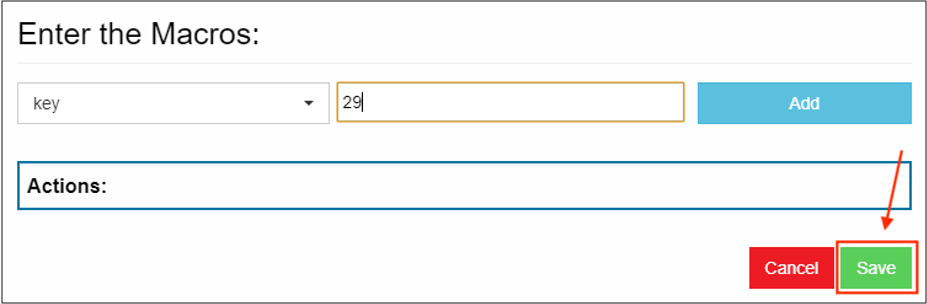
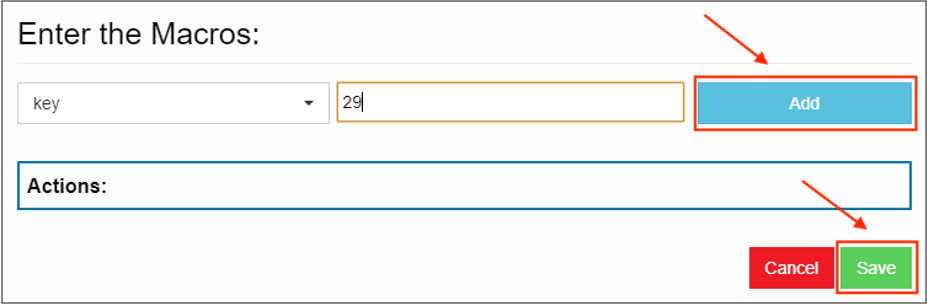
[TUT-40379] EKD 1.6 updates to Usage guide. MVP

diff --git a/src/ekd/1-6/guide/usage/index.md b/src/ekd/1-6/guide/usage/index.md
@@ -81,7 +81,7 @@ The DataWedge service is included on every Zebra device and when enabled, allows
 
 Before beginning a layout, please make note of the following: 
 
-#### Usage Notes
+#### Layout Creation Usage Notes
 
 * **Press CTRL-Z to Undo the most recent operations(s)**. 
 * **There is no "Redo" function**; changes made using CTRL-Z must be reverted manually.  
@@ -96,6 +96,8 @@ Before beginning a layout, please make note of the following:
 * All buttons should be placed within the bounds of the layout background. A layout must not be resized so that it hides any key or button.
 * When switching from one layout to another during design, a thin white line is sometimes visible at the bottom or sides of the layout background in the device simulator. This has no effect on the simulated display.
 * Button positions sometimes shift slightly when switching layouts during design. 
+
+> **IMPORTANT:** Layout-creation UI elements become available when applicable to the layout being created.
 
 ### Using Drag-and-drop
 
@@ -192,7 +194,7 @@ Before beginning a layout, please make note of the following:
  <li><b>Columns -</b> Number of columns in the layout, divided equally across the specified Width **(min = 1)**.</li> 
  <li><b>Margin -</b> Distance (in pixels) between Grid boxes, each of which stores one button **(min = 2; max = 10)**. </li></ul>
   **See [Zebra device specs](https://www.zebra.com/us/en/support-downloads/mobile-computers.html) for device resolution information**.<br>
-  **See [Grid Usage Notes](#gridusagenotes) for important restrictions**.<br>
+  **See Grid Usage Notes below for important restrictions**.<br>
   <br>
 6. **Double-click within each grid box to select it**. Then set its button properties: 
  <img alt="" style="height:350px" src="ekd_properties_panels.png"/>
@@ -259,7 +261,7 @@ Buttons can be positioned and resized within a layout by dragging manually, by u
 * **TextStyle –** Specifies the style of the button label text for the selected button. Drop-down values: Normal, Bold, BoldItalic, Italic. 
 * **SecondaryText -** Specifies the secondary button label displayed in the upper-right corner of the selected button. Indicates the key’s output or Action when long-pressed  **(max = 2); <u>must be blank if an image is selected</u> as button background**.
 
-#### Usage Notes
+#### Text Properties Usage Notes
 
 * **Button property minimum and maximum value rules** are the same for individual and multi-key selections. 
 * **Deleting a group of multi-selected keys** using the “Delete” key on the host computer’s keyboard is not supported. Keys must be deleted individually. 
@@ -286,7 +288,7 @@ Buttons can be positioned and resized within a layout by dragging manually, by u
 
 -----
 
-#### Button Actions
+### Button Actions
 Button Actions supported by EKD include predefined command strings for generating keyEvent output and for switching the key layout currently displayed on the device. 
 
 **Perform keyEvent Action -** Used to generate a particular keyEvent or output a character. Enter the key and value in key-value format from among the standard [Android keyEvent values](https://developer.android.com/reference/android/view/keyEvent). The keyEvent for a key can be captured inside JavaScript onKeyDown events and outputs the value, if associated. The drop-down action commands are selected using the steps below. 
@@ -320,12 +322,13 @@ Button Actions supported by EKD include predefined command strings for generatin
  * **Scan Trigger -** Scans a barcode using DataWedge, which must be configured in advance of this command. See [DataWedge documentation](https://techdocs.zebra.com/datawedge/latest/guide/utilities/ekb/) for more information. **Supported only with Press Action**.
 
 **See [all Unicode characters](https://unicode-table.com/en/)**<br>
-**See all [Android keyEvent values](https://developer.android.com/reference/android/view/KeyEvent)**
+**See [all Android keyEvent values](https://developer.android.com/reference/android/view/KeyEvent)**
 
 > **Note: Entries are case sensitive**. 
 
+-----
 
-#### Macros
+### Macros
 
 Multiple events can be assigned to a single key-press using Macros. Any key can be configured to send any number of keyCodes, events or Actions as listed below. 
 
@@ -341,30 +344,34 @@ Multiple events can be assigned to a single key-press using Macros. Any key can 
 * Send keyEvent
 * Send uppercase or lowercase keyCode or Unicode character
 * Switch to a fixed or custom layout
-* Set a delay between Actions
+* Set a delay between Actions (required&#42;)
 
-##### To Assign a Macro:
+&#42;_A delay of at least 500ms is required between key events to ensure desired execution order_. 
+
+#### To Assign a Macro:
 
 1. Select a key to which to assign a Macro. 
 2. In the Action section of the Button Properties panel, **select "Macros" from the desired Press Action drop-down** (Press, LongPress, ActionDown or ActionUp):  
- <img alt="" style="height:250px" src="ekd16_macros_1.png"/>
+ <img alt="" style="height:200px" src="ekd16_macros_1.png"/>
  _Click image to enlarge, ESC to exit_.
  <br>
 3. In the input box that appears **click the drop-down**.<br>
   A partial list of available key events is shown in Step 4.
- <img alt="" style="height:250px" src="ekd16_macros_2.png"/>
+ <img alt="" style="height:200px" src="ekd16_macros_2.png"/>
  _Click image to enlarge, ESC to exit_.
  <br>
-4. **Select an event (and enter a value as appropriate)** from the drop-down and click the "Add" button: 
+4. From the drop-down, **select an event (and enter a value if applicable)**. <br>
+ Then **click the "Add" button**: 
  <img alt="" style="height:200px" src="ekd16_macros_3.png"/>
  _Click image to enlarge, ESC to exit_.
  <br>
-5. **Repeat Step 4 until all desired events are added** to the Macro as desired. <br>
- <img alt="" style="height:250px" src="ekd16_macros_4.png"/>
+5. **Select "Delay" and enter a value of at least 500 (ms)** between each key event.  
+6. **Repeat Steps 4 and 5 until all desired events are added** to the Macro as desired. <br>
+ <img alt="" style="height:200px" src="ekd16_macros_4.png"/>
  _Click image to enlarge, ESC to exit_.
  <br>
-6. When finished, **click the "Save" button**:
- <img alt="" style="height:250px" src="ekd16_macros_5.png"/>
+7. When finished, **click the "Save" button**:
+ <img alt="" style="height:200px" src="ekd16_macros_5.png"/>
  _Click image to enlarge, ESC to exit_.
 
 #### The Macro is now assigned to the selected key 
@@ -376,7 +383,7 @@ Multiple events can be assigned to a single key-press using Macros. Any key can 
 1. **Click on the key containing the Macro to edit or delete**.<br> 
 The list of the Macro's key events appears. 
 2. **Click the "X" for each key event** to be removed from the sequence:
-  <img alt="" style="height:250px" src="ekd16_macros_6.png"/>
+  <img alt="" style="height:200px" src="ekd16_macros_6.png"/>
  _Click image to enlarge, ESC to exit_.
  <br>
 3. Add events as desired as in Steps 4 and 5 above.<br>
@@ -384,24 +391,6 @@ The list of the Macro's key events appears.
 4. Click the "Save" button to finish.
 
 `WARNING:` If all events are deleted from a Macro, the key will perform no function. 
-
------
-
-#### Usage Notes 	
-
-* **Switching layouts is supported on Enterprise Keyboard only**.
-* **Do NOT use the terms shown below as custom names**; they are reserved for default Enterprise Keyboard layouts: 
- * abc
- * 123
- * scan
- * &#35;&#42;&#47;
- * Scantrigger
- * switch-abc
- * switch-123
- * switch-&#35;&#42;&#47;
- * switch-scan
- * customLayout
- * key-[any Content]
 
 -----
 
@@ -424,22 +413,56 @@ A list of Canned text or predefined responses can be assigned to any key and app
 
 1. **Create (or select) a button** in the current layout.  
 2. **In the Action section** of the Button Properties panel, **select "Canned text" from the drop-down**: 
-<img alt="" style="height:150px" src="EKD-14_pre-defined_text_1.png"/>
+<img alt="" style="height:200px" src="EKD-14_pre-defined_text_1.png"/>
  _Click image to enlarge, ESC to exit_.
 <br>
 3. **Enter a desired response** in the pop-up:
- <img alt="" style="height:150px" src="EKD-14_pre-defined_text_2.png"/>
+ <img alt="" style="height:200px" src="EKD-14_pre-defined_text_2.png"/>
  `IMPORTANT:` **Use of the plus sign (+) in Canned text list items can cause unpredictable behavior**. <br>
 4. Click "Add" to store the response and add another.
 5. Repeat Steps 3 and 4 until all responses are stored.
 6. Click "Save" to store all responses and exit pop-up.
+<!-- 6/18/20 Steps 7 and 8 removed per eng. TUT-40406
 7. **Click "Save Layout" button** to store the new project settings.<br>
  **NOTE**: To set layout as the default (to appear whenever EKB is used), click on the layout's star icon:
  <img alt="" style="height:150px" src="EKD_14_set_default_layout.png"/>
 8. **Click "Save Project" to create a project file for deployment**.
-<br>
+-->
 
-##### Canned text responses are stored and deployed with the layout.
+#### Canned text responses are stored and deployed with the layout.
+
+> **NOTE: Setting the default layout from EKD requires Enterprise Keyboard 3.4 or later on the device**. 
+
+-----
+
+#### To edit or delete Canned text Response(s): 
+
+1. **Open the key layout project that contains the response list(s)** to be modified.
+2. In the layout, **select the button that contains the response list(s)** to be edited.  
+3. **In the Action section** of the Button Properties panel, **select "Canned text" from the drop-down**:
+ <img alt="" style="height:200px" src="EKD-14_pre-defined_text_1.png"/>
+ _Click image to enlarge, ESC to exit_.
+<br>
+ A pop-up appears with the list of responses currently stored with that button:
+ <img alt="" style="height:200px" src="edit_predefined_message_1.png"/>
+ _Click image to enlarge, ESC to exit_.
+4. **To Delete response(s)**, click the "X" for the response(s). **<u>Then skip to Step 8</u>**.<br>
+ `WARNING:` Responses are deleted immediately. **This action cannot be undone**. 
+5. **To Edit, click the edit button** for the response to be edited:<br>
+ <img alt="" style="height:200px" src="edit_predefined_message_2.png"/>
+ _Click image to enlarge, ESC to exit_.
+6. **Edit the response** as desired and **click Submit**.<br>
+ `IMPORTANT:` **Use of the plus sign (+) in Canned text responses can cause unpredictable behavior**. 
+7. **Repeat Steps 5 and 6** until all Canned text responses appear as desired.  
+8. **Click Save to store changes and exit the pop-up**. 
+<!--  6/18/20 Steps 9 and 10 removed per eng. TUT-40406
+9. **Click "Save Layout" button** to store the new project settings.<br>
+ **NOTE**: To set layout as the default (to appear whenever EKB is used), click on the layout's star icon:
+ <img alt="" style="height:150px" src="EKD_14_set_default_layout.png"/>
+10. **Click "Save Project" to create a project file for deployment**.
+ -->
+
+#### Canned text responses are stored and deployed with the layout.
 
 > **NOTE: Setting the default layout from EKD requires Enterprise Keyboard 3.4 or later on the device**. 
 
@@ -449,46 +472,14 @@ A list of Canned text or predefined responses can be assigned to any key and app
 
 EKD 1.6 (and later) adds three Action Properties for repeatedly sending keyCodes when a key is long-pressed. **Enterprise Keyboard 3.6 is required**. 
 
-<img alt="" style="height:150px" src="ekd16_repeat_key.png"/>
+<img alt="" style="height:200px" src="ekd16_repeat_key.png"/>
 _Click image to enlarge, ESC to exit_.
 
-* **repeatkeyincaps** continuously sends an uppercase letter corresponding to the key being long-pressed as long as the key is held down, regardless of whether the shift key was used.
-* **repeatkey** continuously sends a lowercase letter corresponding to the key being long-pressed as long as the key is held down.
-* **repeatuc** continuously sends the specified Unicode character when the key is long-pressed as long as the key is held down.
+* **Repeat keyinCaps** continuously sends an uppercase letter corresponding to the key being long-pressed as long as the key is held down, regardless of whether the shift key was used.
+* **Repeat key** continuously sends a lowercase letter corresponding to the key being long-pressed as long as the key is held down.
+* **Repeat UC** continuously sends the specified Unicode character when the key is long-pressed as long as the key is held down.
 
 > **Note**: These actions apply only to Long-Press Action properties.
-
------
-
-#### To edit or delete Canned text Response(s): 
-
-1. **Open the key layout project that contains the response list(s)** to be modified.
-2. In the layout, **select the button that contains the response list(s)** to be edited.  
-3. **In the Action section** of the Button Properties panel, **select "Canned text" from the drop-down**:
- <img alt="" style="height:250px" src="EKD-14_pre-defined_text_1.png"/>
- _Click image to enlarge, ESC to exit_.
-<br>
- A pop-up appears with the list of responses currently stored with that button:
- <img alt="" style="height:250px" src="edit_predefined_message_1.png"/>
- _Click image to enlarge, ESC to exit_.
-4. **To Delete response(s)**, click the "X" for the response(s). **<u>Then skip to Step 8</u>**.<br>
- `WARNING:` Responses are deleted immediately. **This action cannot be undone**. 
-5. **To Edit, click the edit button** for the response to be edited:<br>
- <img alt="" style="height:250px" src="edit_predefined_message_2.png"/>
- _Click image to enlarge, ESC to exit_.
-6. **Edit the response** as desired and **click Submit**.<br>
- `IMPORTANT:` **Use of the plus sign (+) in Canned text responses can cause unpredictable behavior**. 
-7. **Repeat Steps 5 and 6** until all Canned text responses appear as desired.  
-8. **Click Save to store changes and exit the pop-up**. 
-9. **Click "Save Layout" button** to store the new project settings.<br>
- **NOTE**: To set layout as the default (to appear whenever EKB is used), click on the layout's star icon:
- <img alt="" style="height:150px" src="EKD_14_set_default_layout.png"/>
-10. **Click "Save Project" to create a project file for deployment**.
-<br>
-
-##### Canned text responses are stored and deployed with the layout.
-
-> **NOTE: Setting the default layout from EKD requires Enterprise Keyboard 3.4 or later on the device**. 
 
 -----
 
@@ -503,10 +494,9 @@ Changes to these settings appear immediately in the device simulator unless othe
 * **Image -** Used to select an image to fill the space of the selected key. When the layout is saved, selected image(s) are embedded within the “.encrypted” file. **Supports** `.jpg` **and** `.png` **image files. Zebra recommends using files of 100 KB or less for optimal layout performance. File name must begin with an alpha-numeric character**. 
 * **ImagePressed -** Used to select an image to be displayed when the button is pressed. After selection, the image appears on the device simulator when the button is pressed. When the layout is saved, selected image(s) are embedded within the “.encrypted” file. **Supports** `.jpg` **and** `.png` **image files. Zebra recommends using files of 100 KB or less for optimal layout performance. File name must begin with an alpha-numeric character**. 
 
-#### Usage Notes
+#### Style Properties Usage Notes
 * **Button property minimum and maximum value rules** are the same for individual and multi-key selections. 
 * **Deleting a group of multi-selected keys** using the “Delete” key on the host computer’s keyboard is not supported. Keys must be deleted individually. 
-
 
 -----
 
@@ -523,8 +513,8 @@ _Applies only to devices that support vibration_.
 ### Multi-key Selection
 Use the CTRL key on the host computer's keyboard to select multiple keys simultaneously. Selected key(s) are indicated by a red border, and supported input fields for Button Properties are enabled. Changes to properties appear immediately on the selected button(s). Properties are described in their relevant sections above. 
 
-<img alt="" style="height:150px" src="ekd_selected_key.png"/>
-<img alt="" style="height:150px" src="ekd_multi-select.png"/>
+<img alt="" style="height:200px" src="ekd_selected_key.png"/>
+<img alt="" style="height:200px" src="ekd_multi-select.png"/>
 _Click image to enlarge, ESC to exit_.
 <br>
 
@@ -557,7 +547,7 @@ _Click image to enlarge, ESC to exit_.
  * **Width**
  * **Height** 
 
-#### Usage Notes
+#### Multi-key Usage Notes
 * **Button property minimum and maximum value rules** are the same for individual and multi-key selections. 
 * **Deleting a group of multi-selected keys** using the “Delete” key on the host computer’s keyboard is not supported. Keys must be deleted individually.  
 * **Button layout (i.e. width, height, etc.) and action properties (Press, LongPress, etc.) <u>MUST NOT be changed using multi-key selection</u>**; behavior is unpredictable.
@@ -730,6 +720,24 @@ This case describes an Android app with two text input fields, both requiring cu
 **Note**: If the custom layout name is not known, send a `GET` intent <u>**_before_** the calling the onFocus change listener</u> to receive a list of all available layout names in the layout file. Then send the `SET` intent with the name of the desired layout. 
 
 > **`IMPORTANT:` Enterprise Keyboard must be enabled if the application goes to the background** to avoid a device user resetting the layout from outside the app.
+
+-----
+
+#### Layout Switching Usage Notes 	
+
+* **Switching layouts is supported on Zebra Enterprise Keyboard only**.
+* **Do NOT use the terms shown below as custom names**; they are reserved for default Enterprise Keyboard layouts: 
+ * abc
+ * 123
+ * scan
+ * &#35;&#42;&#47;
+ * Scantrigger
+ * switch-abc
+ * switch-123
+ * switch-&#35;&#42;&#47;
+ * switch-scan
+ * customLayout
+ * key-[any Content]
 
 -----
 
